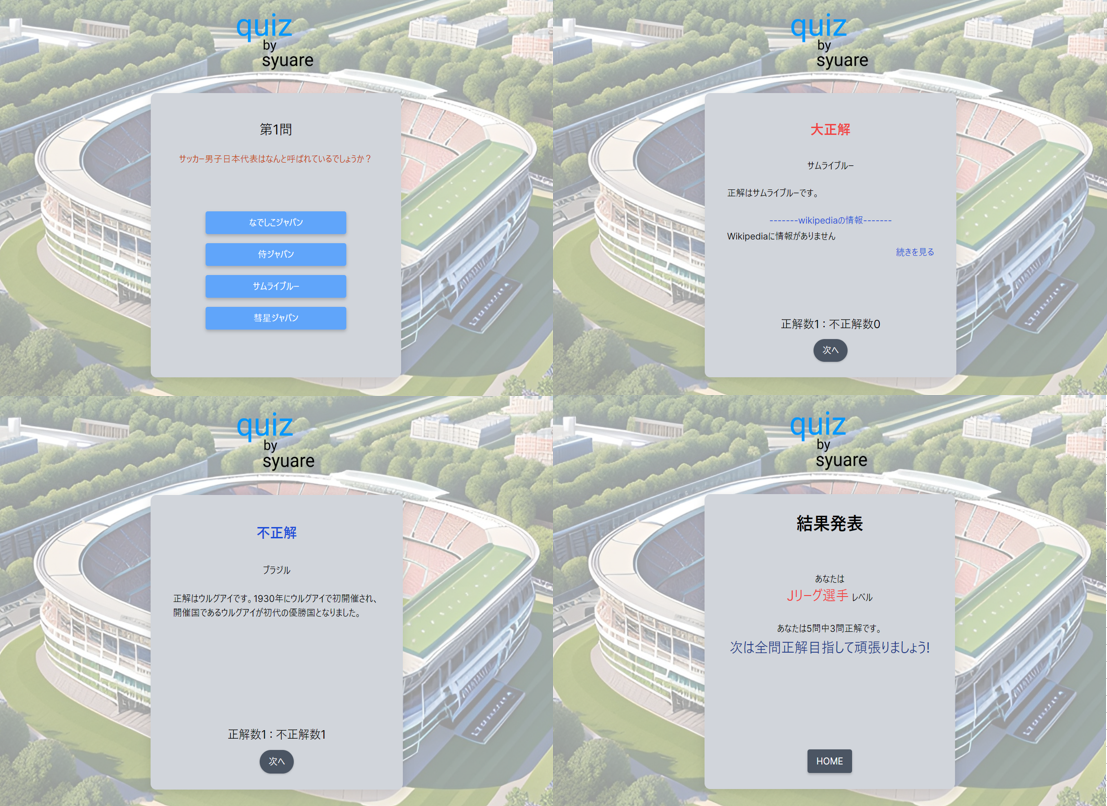
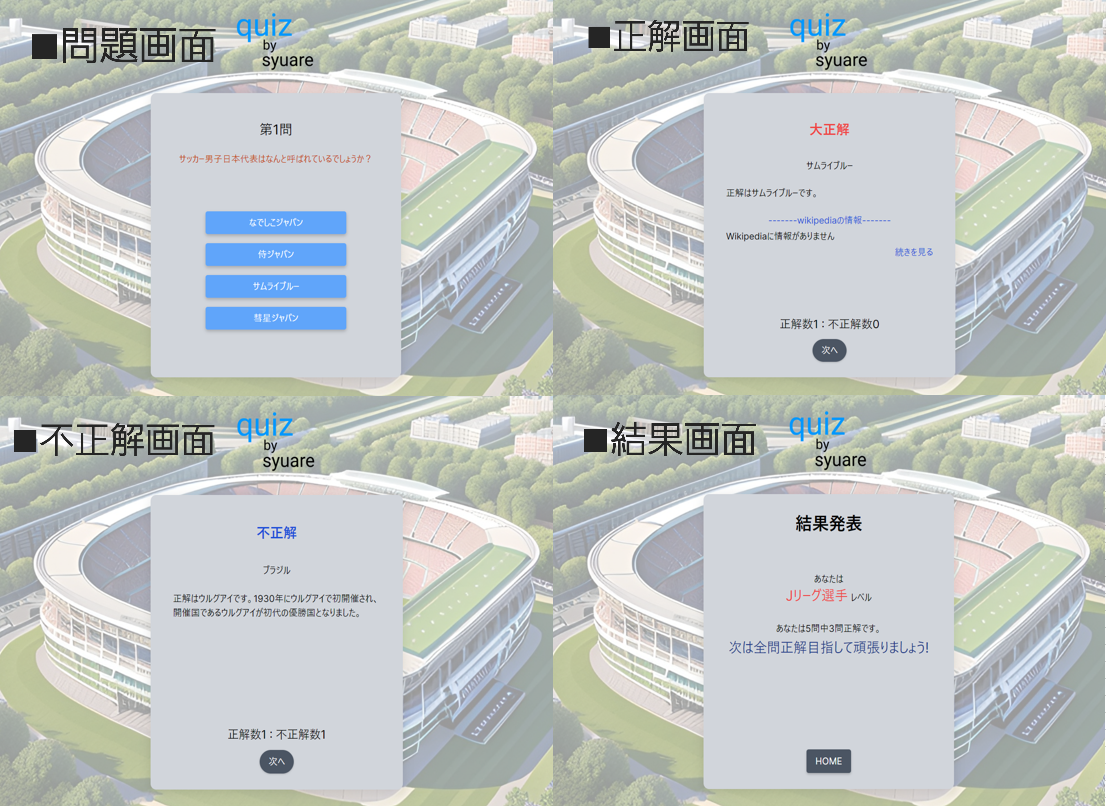
Feature/update readme.md 2 (#18)
* 画面一覧写真の修正

* README.mdの本文の修正

diff --git a/README.md b/README.md
@@ -13,7 +13,7 @@
 * サッカーのクイズをしたい方
 * サッカーのクイズを考えて問題を出題したい方
 
-## このサービスで解決できること
+## このサービスで解決できる課題
 1. 自分が知らないサッカーに関する知識を知りたい。<br>
 2. 自分の知っているサッカーに関する知識を共有したい。
 
@@ -46,10 +46,10 @@ Mermaidを使用して作成<br>
 
 ## 機能一覧
 * **クイズを回答、結果の確認**
-* **クイズをサイクル管理**<br>5問目を回答すると結果に遷移し、サイクルがリセットされます。
-* **ブラウザバックアラート機能**<br>サイクルが崩れてしまうことを防ぐために、ブラウザバックをした際にアラートを出し、アラートを了承した際にブラウザバックできるようにしました。ブラウザバックをした際には、サイクルはリセットされます。
-* **問題の投稿機能**<br>ユーザー自信が考えた問題を投稿フォーム投稿すると本サービスの問題として反映することが出来ます。<br>(今後、認証によるクイズの反映機能の追加を検討中)
-* **wikipedia API**<br>正解時に解答の情報をwikipediaから取得し、解答の情報を表示することができます。
+* **クイズをサイクル管理**<br>5問目を回答すると結果に遷移し、サイクルがリセットされる。
+* **ブラウザバックアラート機能**<br>サイクルが崩れてしまうことを防ぐために、ブラウザバックをした際にアラートを出し、アラートを了承した際にブラウザバックできる。ブラウザバックをした際には、サイクルはリセットされる。
+* **問題の投稿機能**<br>ユーザー自信が考えた問題を投稿フォーム投稿すると本サービスの問題として反映することが出来る。<br>(今後、認証によるクイズの反映機能の追加を検討中)
+* **wikipedia API**<br>正解時に解答の情報をwikipediaから取得し、解答の情報を表示することが出来る。
 
 ## 学習予定の技術
 【インフラ】
